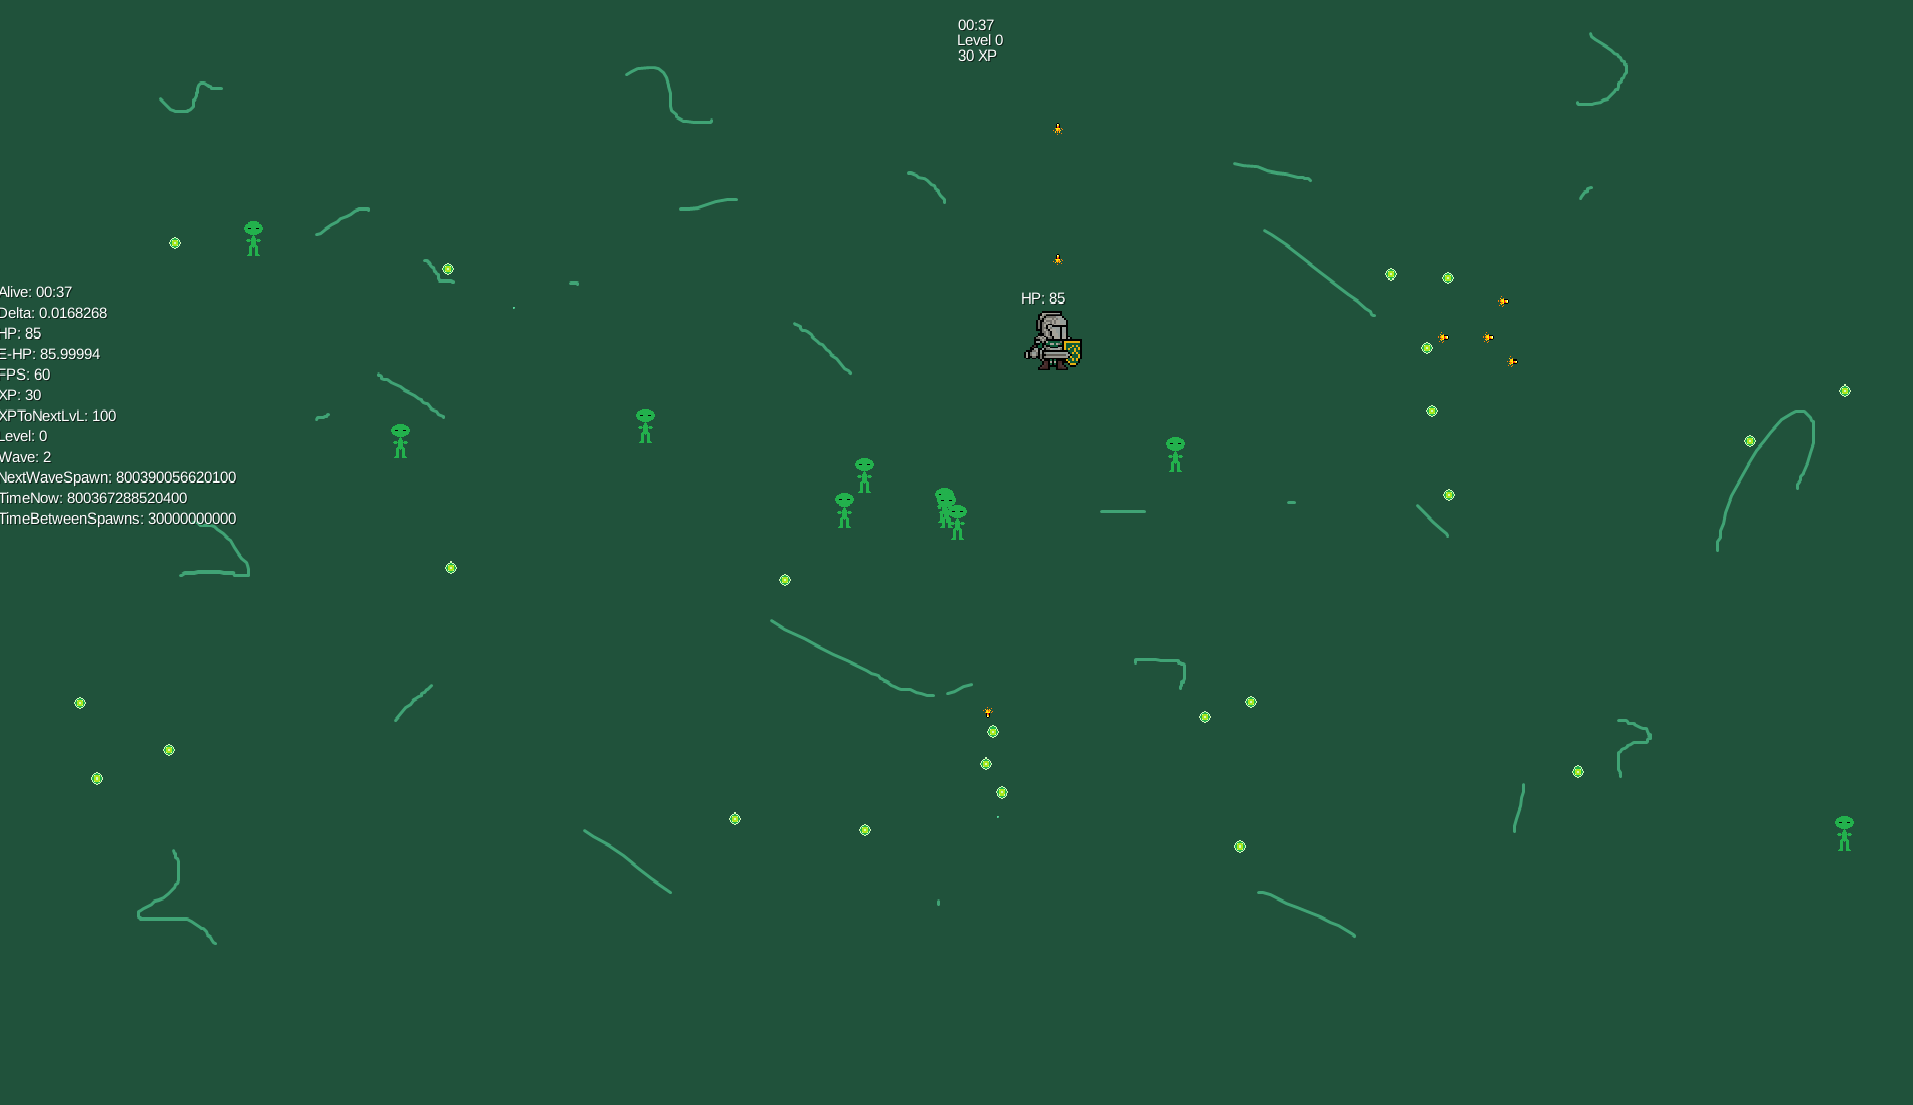
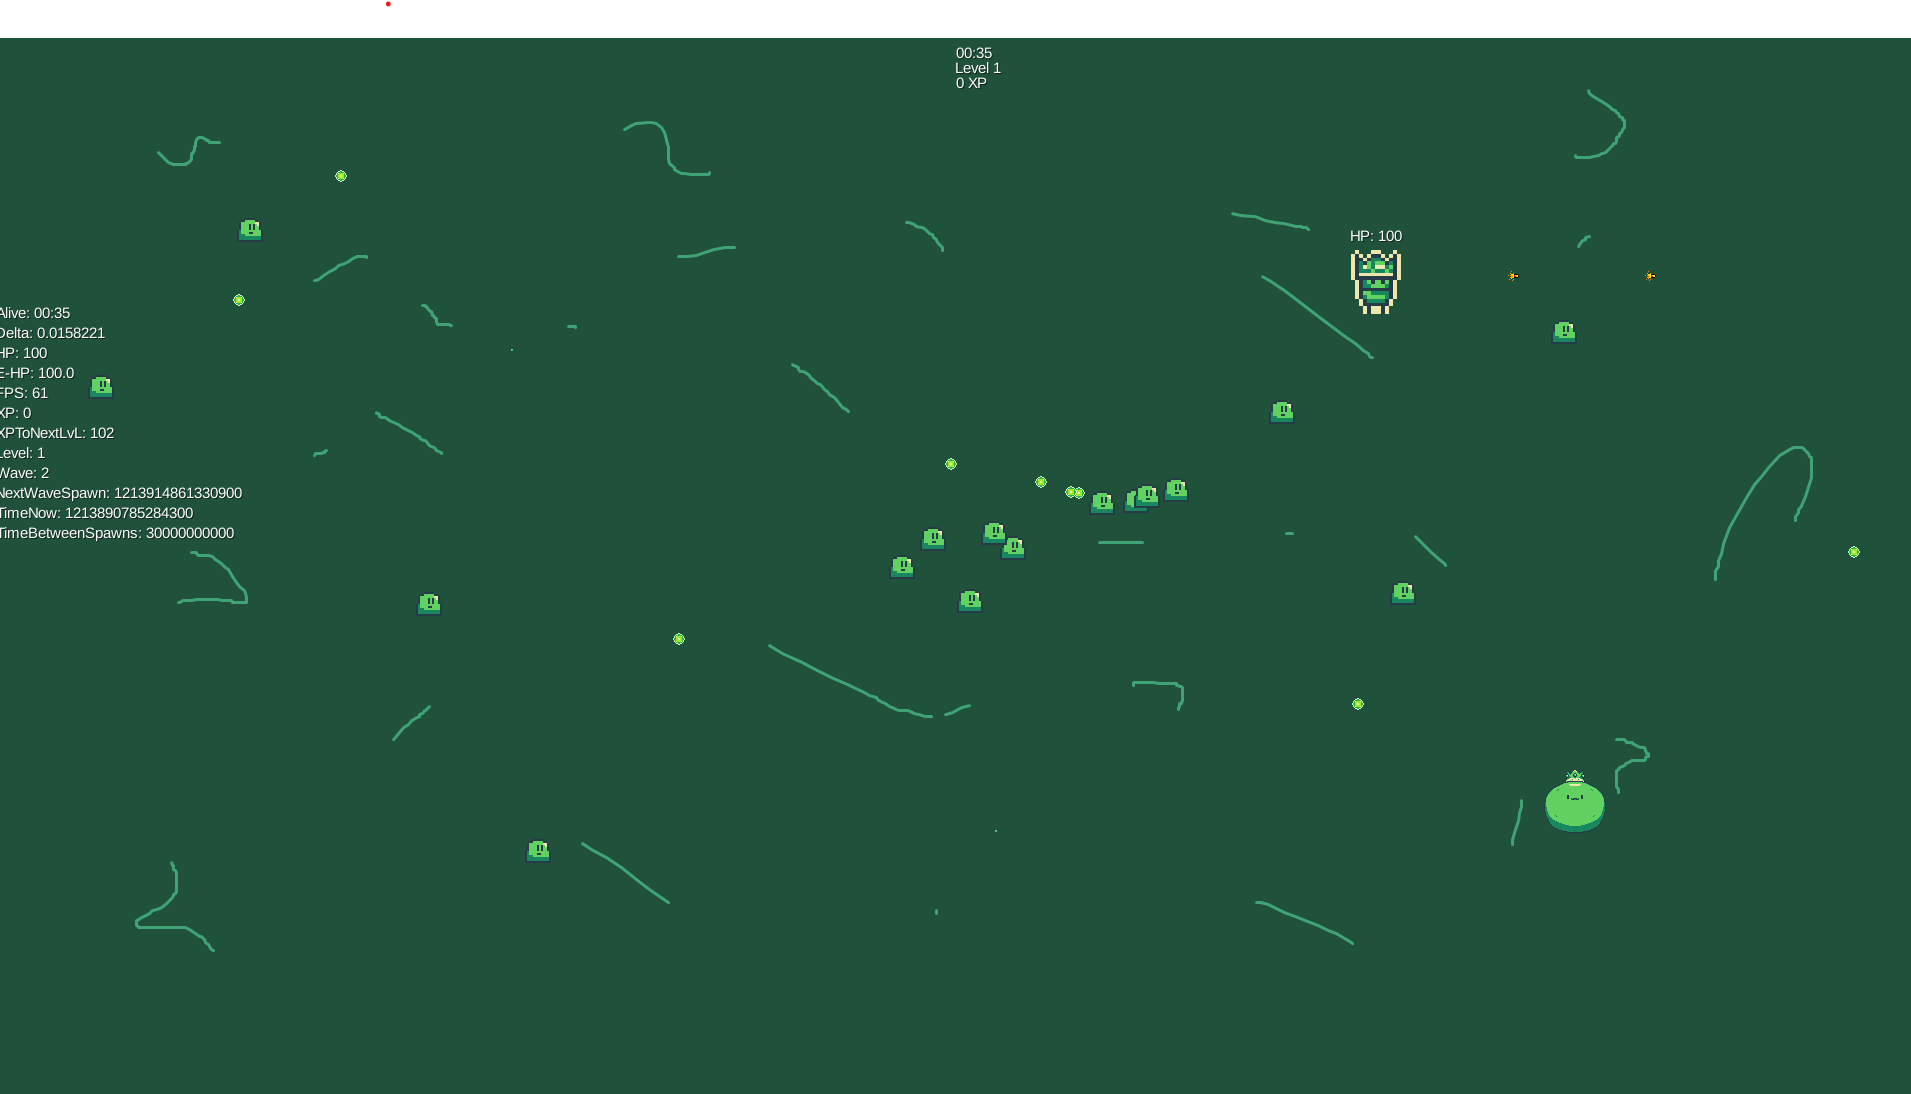
Changed readme.md (Ty BenBonk for letting me use your sprites)

diff --git a/readme.md b/readme.md
@@ -1,8 +1,8 @@
 <h1>My take at a Vampire Survivors clone</h1>
 
-Yes this is a very early stage of the game and the ugly art will be replaced so please don't judge my paint.net skills
+Yes this is a very early stage of the game
 <h2>TODO</h2>
-- Complete Visual overhaul of all the sprites<br>
+- Complete Visual overhaul of all the sprites (Current Sprites made by BenBonk)<br>
 - Implementation of proper Game Screens (Start / Pause / LevelUp / GameOver / etc.)<br>
 - Addition of more Enemy Types<br>
 - Implementation of Weapons and Items for the player<br>
